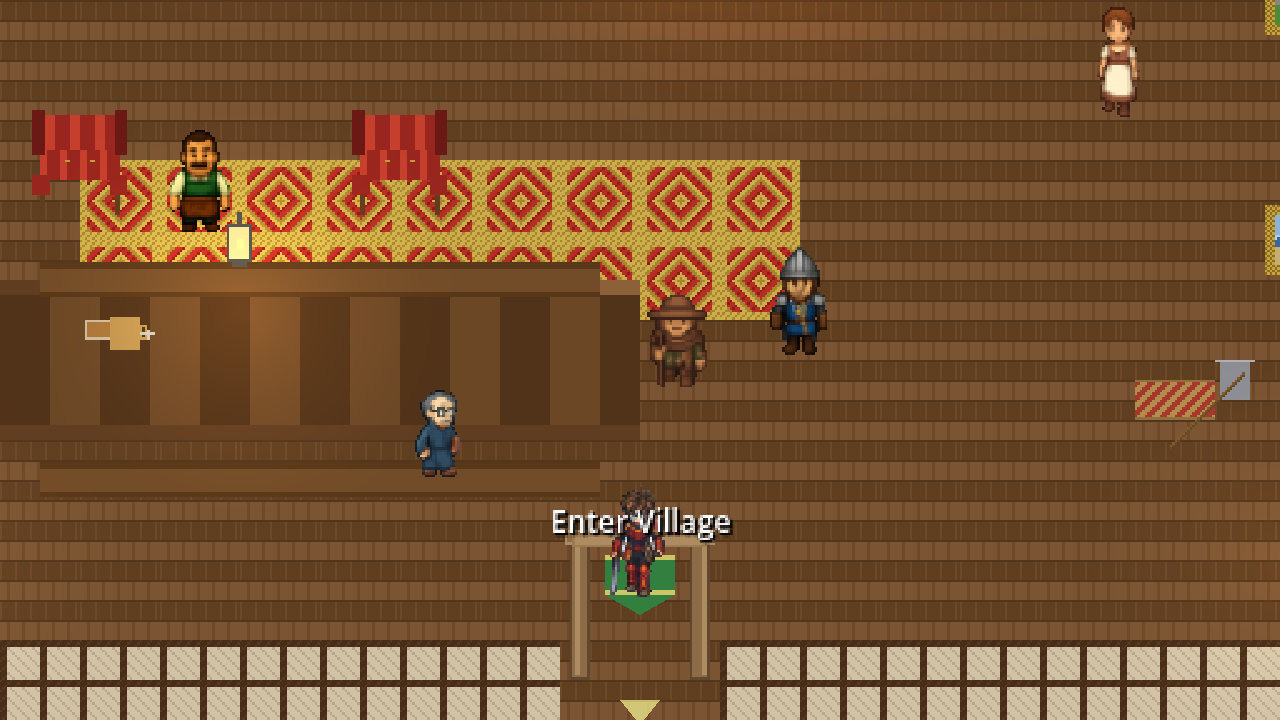
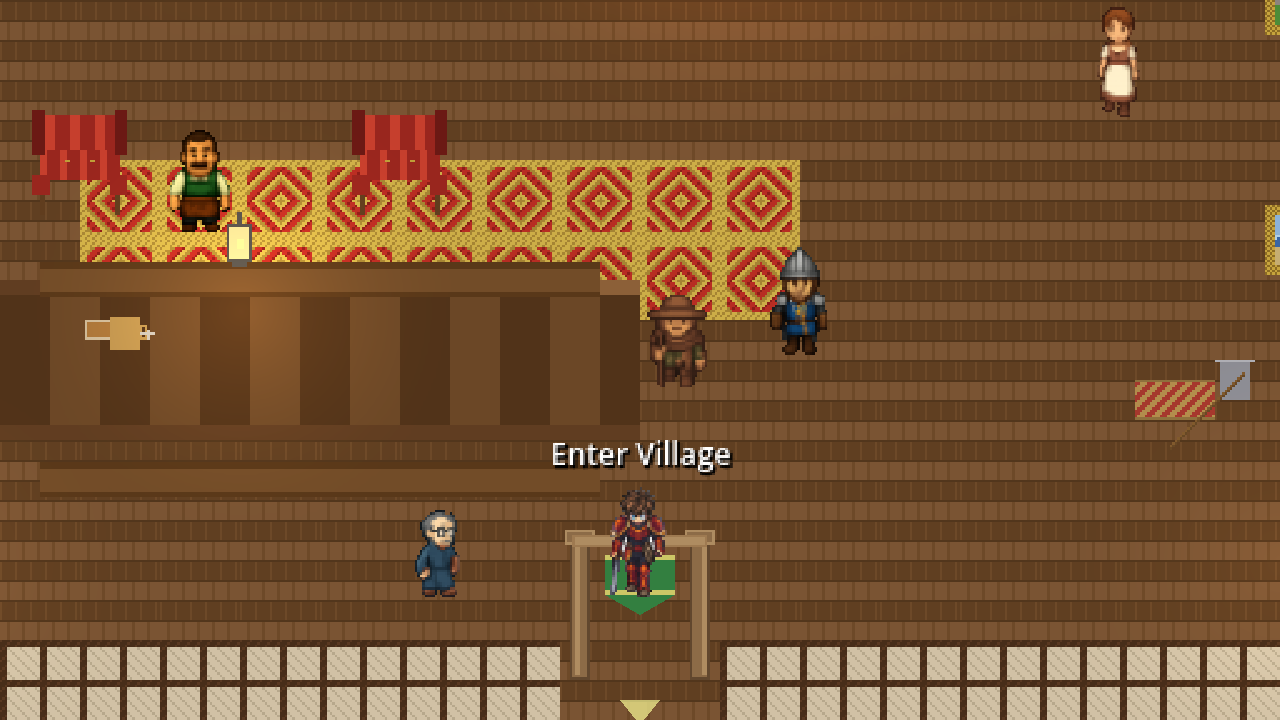
store assets: re-shot at v3.33.767-alpha, judged in pixels
Ten frames replaced, from a fresh worktree at v3.33.767-alpha (1301e066a, live
on all three channels), two marketing_shots runs, decided by
tools/store_shot_pixels.py (share of pixels over 24 levels; MOVED = >= 1% and
> 3x run-to-run noise, which was 0.00% on every shot):

  harmonia 91.72% · frosthold 86.09% · grimhollow 76.23% · eldertree 74.62%
  sandrift 63.88% · ironhaven 61.18% · battle 24.88% · shop_interior 3.88%
  inn_interior 1.37% · title_screen 0.01% (replaced anyway: the version label)

Kept: tavern_interior 0.77%, whispering_cave 0.00%. The byte report called
inn and shop "same". Each replaced frame was compared by eye against the one
it replaces: drawn village buildings; the battle party in formation with a
starting party's stats; the shop shopper and the inn guest off the furniture.
The inn frame does not show the north wall, so .768's fireplace fix is not in
shot. CAPTIONS: the vintage table + this re-shoot's section. MANIFEST: the 10
frame rows + the CAPTIONS row regenerated the tool's own way (cksum + stat).

Claude-Session: https://claude.ai/code/session_01W2qjrDSfZUL4M11aPpJvXX

diff --git a/itch-assets/CAPTIONS.md b/itch-assets/CAPTIONS.md
@@ -1,12 +1,13 @@
 # Store screenshot captions — Cowardly Irregular
 
-**Current vintage of every shipped frame (2026-11-02, read from git, not remembered):**
+**Current vintage of every shipped frame (2026-11-04, read from git, not remembered):**
 
 | captured at | shots | section |
 |---|---|---|
-| `v3.33.748-alpha` | the six villages · `inn_interior` · `shop_interior` · `tavern_interior` · `whispering_cave` | "re-shot at `v3.33.748-alpha`" |
+| `v3.33.748-alpha` | `tavern_interior` · `whispering_cave` | "re-shot at `v3.33.748-alpha`" |
 | `v3.33.750-alpha` | `battle_storm` · `field_elite_medieval` · `field_elite_prompt_medieval` · `field_elite_steampunk` · `grimhollow_spiral` · `infernal_grotto_f3` · `warren_lever_portals` · `warren_wrap_field` | commit `1df31b2fb` |
-| `v3.33.752-alpha` | `battle` (1.5x speed chip) · `title_screen` | commits `438ff3e68`, `21f990b47` |
+| `v3.33.752-alpha` | (none left: both re-shot at `.767`) | commits `438ff3e68`, `21f990b47` |
+| `v3.33.767-alpha` | the six villages · `inn_interior` · `shop_interior` · `battle` · `title_screen` | "re-shot at `v3.33.767-alpha`" |
 
 Re-derive it rather than trusting this table: `git log -1 --format=%h -- itch-assets/screenshots/<shot>.png`
 names the commit, and that commit's message names the tag it was shot from. Which of them have gone
@@ -666,3 +667,37 @@ Which image leads (`battle_storm`, `battle`, or one of these) stays @struktured'
 **Capture conditions:** as the village section above, from `pub750` at `3cc6e9221`; pads hidden by the jail;
 his profile `--sig` before / `--verify` after every one of the 9 runs: UNCHANGED. The store page itself is
 @struktured's to update.
+
+---
+
+## 2026-11-04 — re-shot at `v3.33.767-alpha`, judged in PIXELS
+
+`.766` took NPCs off the shop shelf and the inn counter, `.767` took the painted props off the drawn
+furniture, and the villages had gained drawn buildings since `.748`. Re-shot from a fresh worktree at
+`v3.33.767-alpha` (`1301e066a`, live on all three channels), two runs, decided by
+`tools/store_shot_pixels.py` (share of pixels over 24 levels vs the shipped frame; MOVED = >= 1% and
+> 3x the run-to-run noise). The byte report (`store_shot_staleness.py --compare`) called `inn_interior`
+and `shop_interior` "same"; pixels did not.
+
+| shot | vs shipped | noise | verdict |
+|---|---|---|---|
+| `harmonia_village` | 91.72% | 0.00% | **REPLACED**: the drawn forge and the green-roofed shop |
+| `frosthold_village` | 86.09% | 0.00% | **REPLACED**: snow-roofed cabins and the clock tower |
+| `grimhollow_village` | 76.23% | 0.00% | **REPLACED** |
+| `eldertree_village` | 74.62% | 0.00% | **REPLACED** |
+| `sandrift_village` | 63.88% | 0.00% | **REPLACED** |
+| `ironhaven_village` | 61.18% | 0.00% | **REPLACED** |
+| `battle` | 24.88% | 0.00% | **REPLACED**: the party in formation, not stacked; a starting party's stats |
+| `shop_interior` | 3.88% | 0.00% | **REPLACED**: the robed shopper stands on the floor, the barrels off the shelf |
+| `inn_interior` | 1.37% | 0.00% | **REPLACED**: the guest off the counter, the door label clear of the player |
+| `title_screen` | 0.01% | 0.00% | **REPLACED anyway**: that 0.01% IS the version label, `v3.33.752` -> `v3.33.767` |
+| `tavern_interior` | 0.77% | 0.00% | KEPT (under 1%) |
+| `whispering_cave` | 0.00% | 0.00% | KEPT (identical) |
+
+Every REPLACED frame was looked at beside the one it replaces before committing. The inn frame does not
+show the north wall, so the misplaced painted fireplace that `.768` fixes is not in shot.
+
+**Capture conditions:** `tools/marketing_shots.sh` (sandboxed `XDG_DATA_HOME`, pads jailed) from
+`<lane>/tmp/wt-shoot767`; a sandboxed `--import` first (EC=0, 0 SCRIPT/Parse errors); his real profile:
+0 new rotated logs. The store page itself is uploaded through the web UI, which is @struktured's.
+
